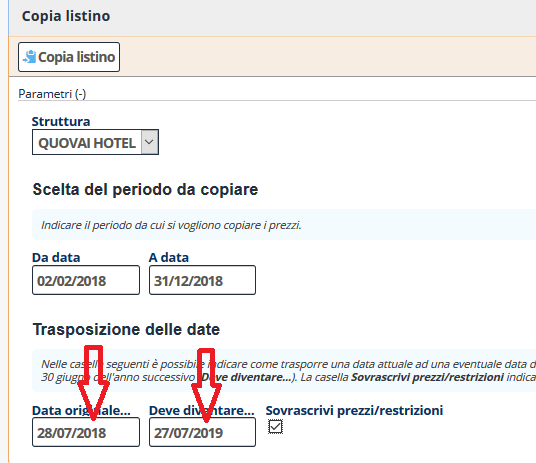
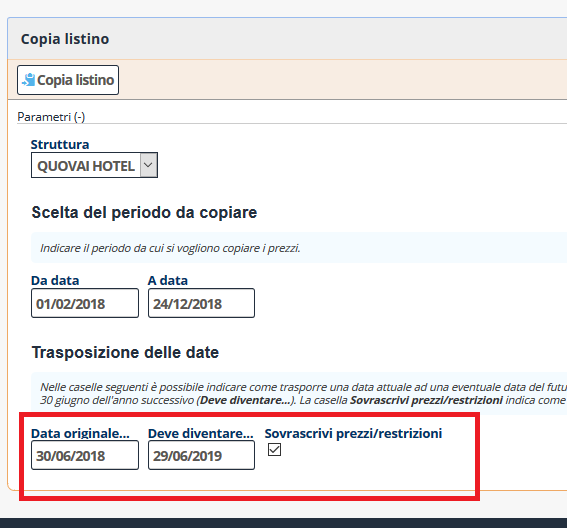
Cambiamento dati per corrispondere alla foto (copiare listino)

Changed region(s): [[0.0, 0.0, 1.0, 1.0], [0.0597, 0.3931, 0.4776, 0.4233]]

diff --git a/copiare-il-listino-it.md b/copiare-il-listino-it.md
@@ -1,6 +1,4 @@
-
 [Indice](index.md) / [Quovai PMS](quovai-pms-it.md) / Copiare il listino da una stagione all'altra
-
 
 # Copiare il listino da una stagione all'altra
 
@@ -16,7 +14,7 @@ Devi indicare il periodo da cui si vogliono copiare i prezzi.
 
 ![](images/listino-003.png) 
 
-Poi è possibile indicare come trasporre una data attuale ad una eventuale data del futuro. Per esempio, se quest'anno il 1° luglio è un Sabato e l'anno successivo il 1° luglio è una Domenica, per conservare l'allineamento del calendario potremmo dire che vorremmo far corrispondere il Sabato 1° luglio di quest'anno (**Data originale...**) al Sabato 30 giugno dell'anno successivo (**Deve diventare...**). La casella **Sovrascrivi prezzi/restrizioni** indica come si deve comportare il sistema in caso nel periodo verso cui si vuole copiare il listino, esistano già definiti prezzi e restrizioni. 
+Poi è possibile indicare come trasporre una data attuale ad una eventuale data del futuro. Per esempio, se quest'anno il 30 di giugno  è un Sabato e l'anno successivo il 30 di giugno è una Domenica, per conservare l'allineamento del calendario potremmo dire che vorremmo far corrispondere il Sabato 30 di giugno di quest'anno (**Data originale...**) al Sabato 29 giugno dell'anno successivo (**Deve diventare...**). La casella **Sovrascrivi prezzi/restrizioni** indica come si deve comportare il sistema in caso nel periodo verso cui si vuole copiare il listino, esistano già definiti prezzi e restrizioni. 
 
 ![](images/listino-004.png) 
 
